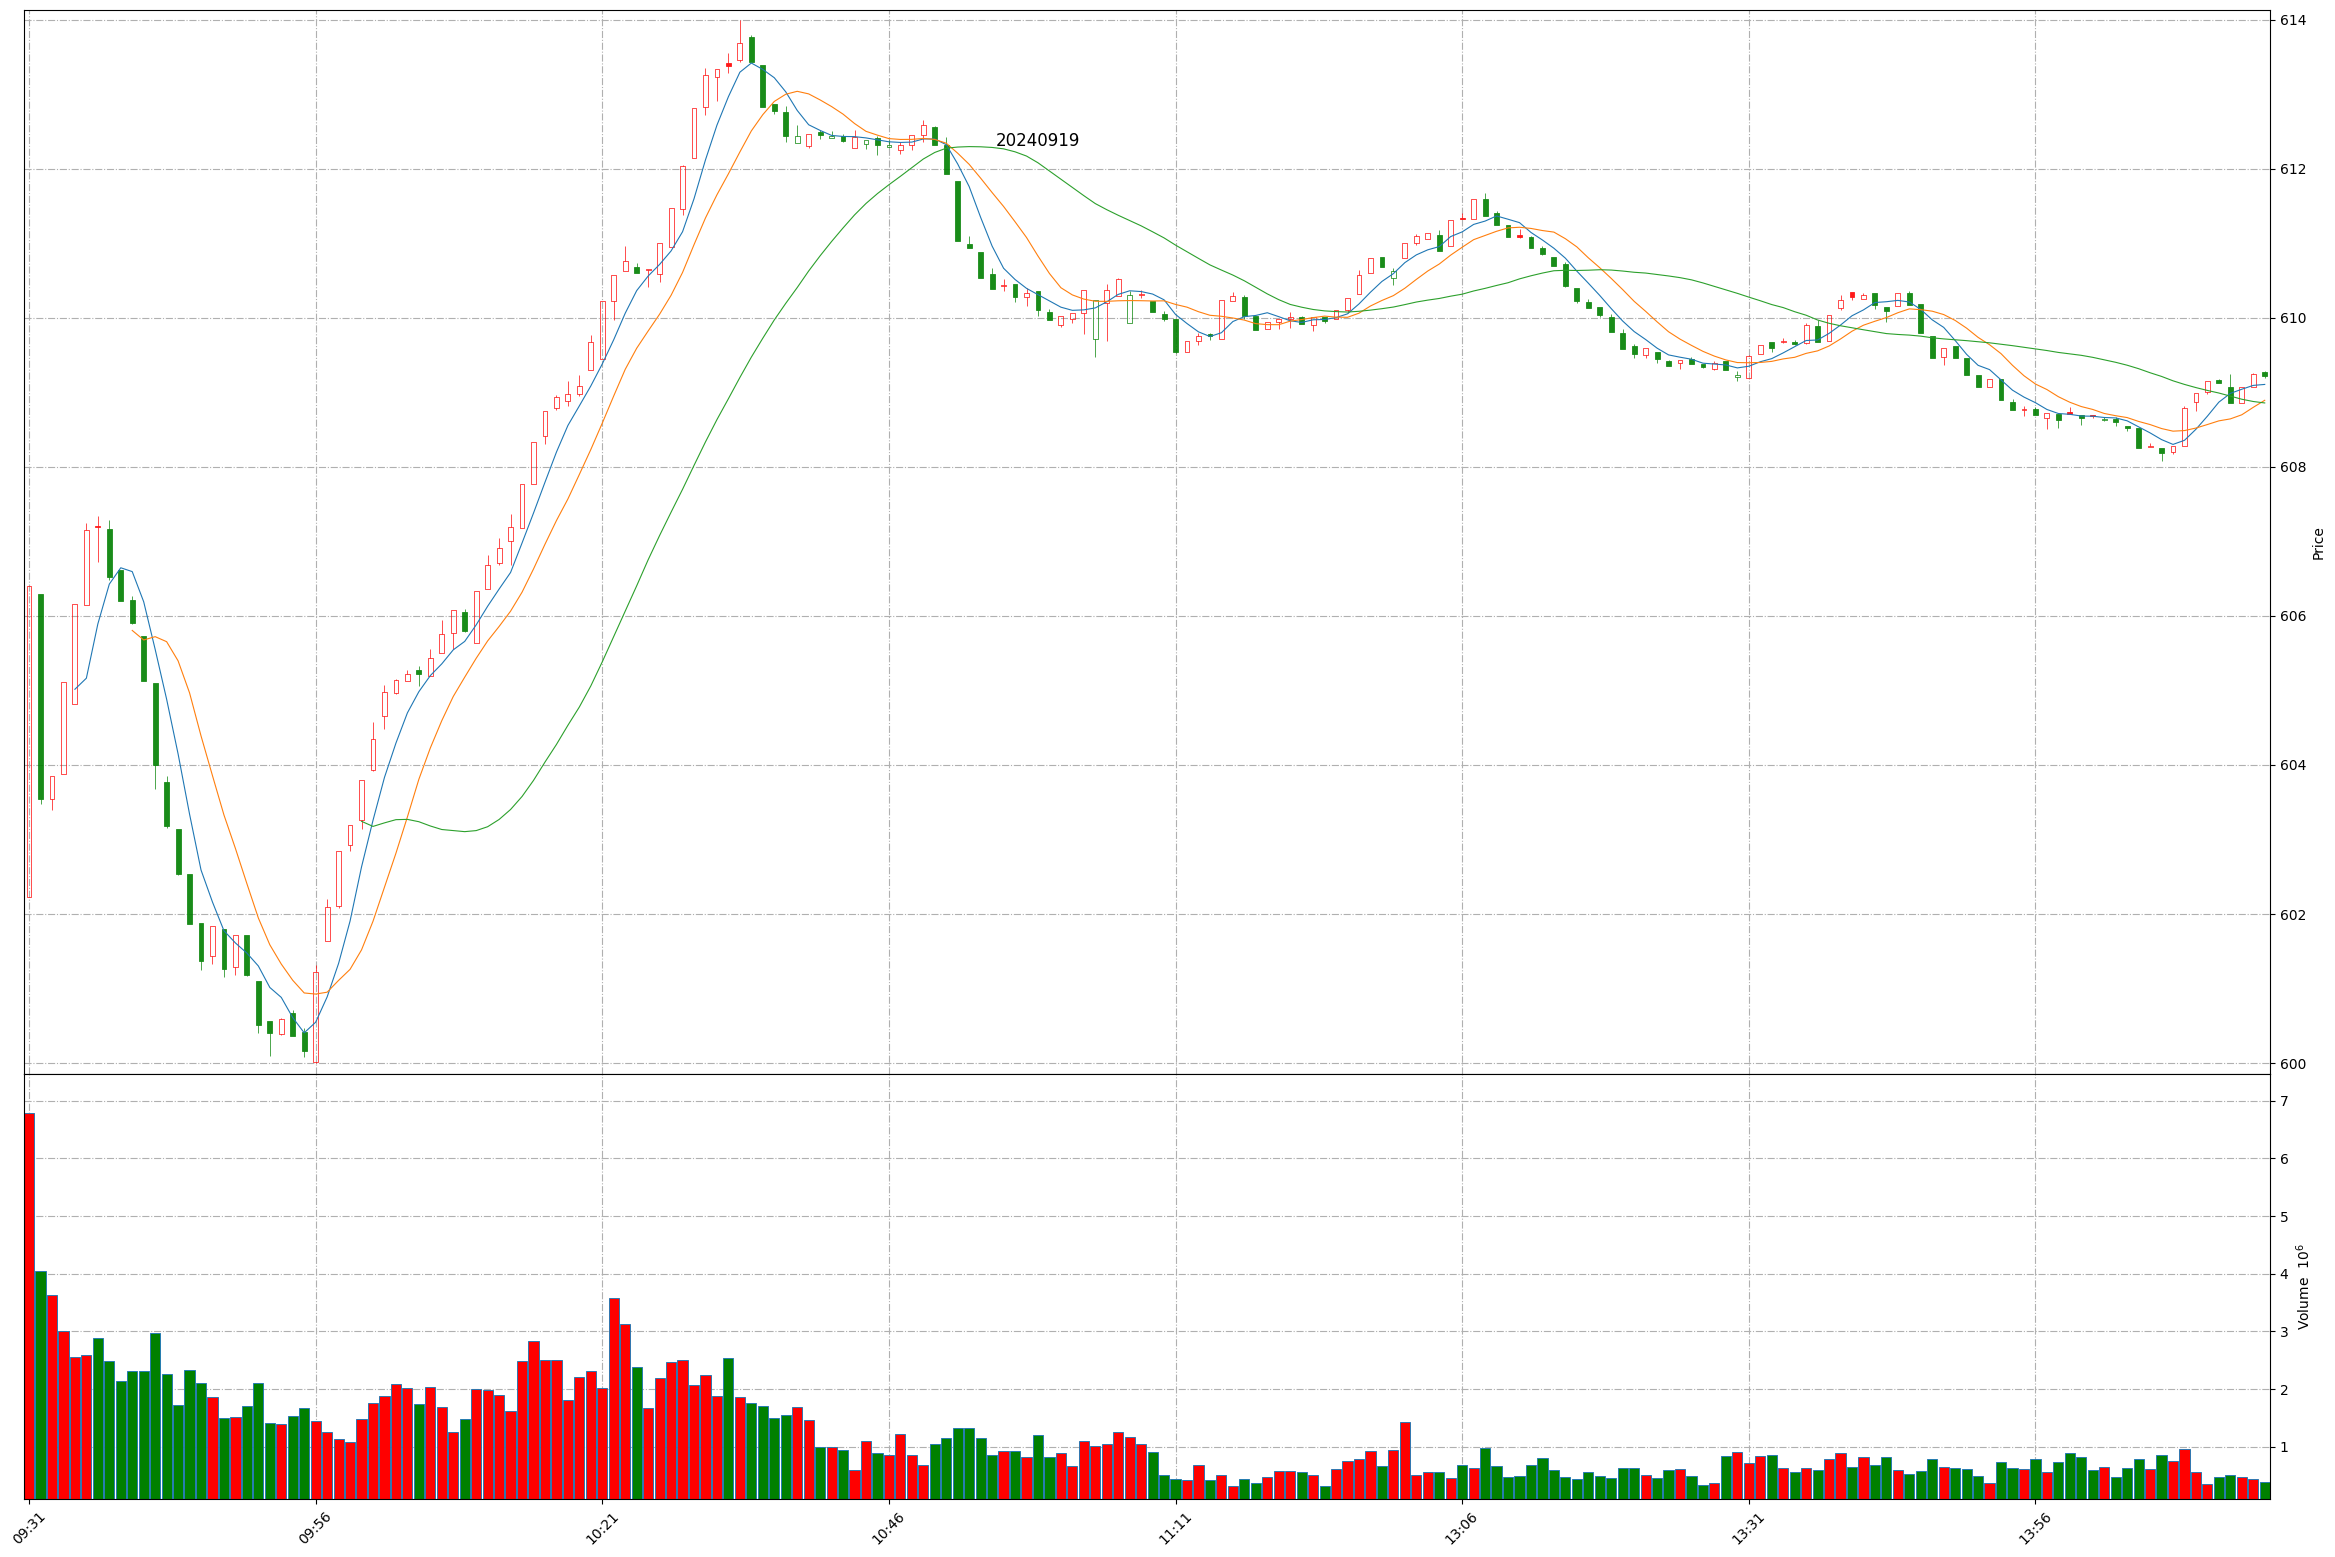
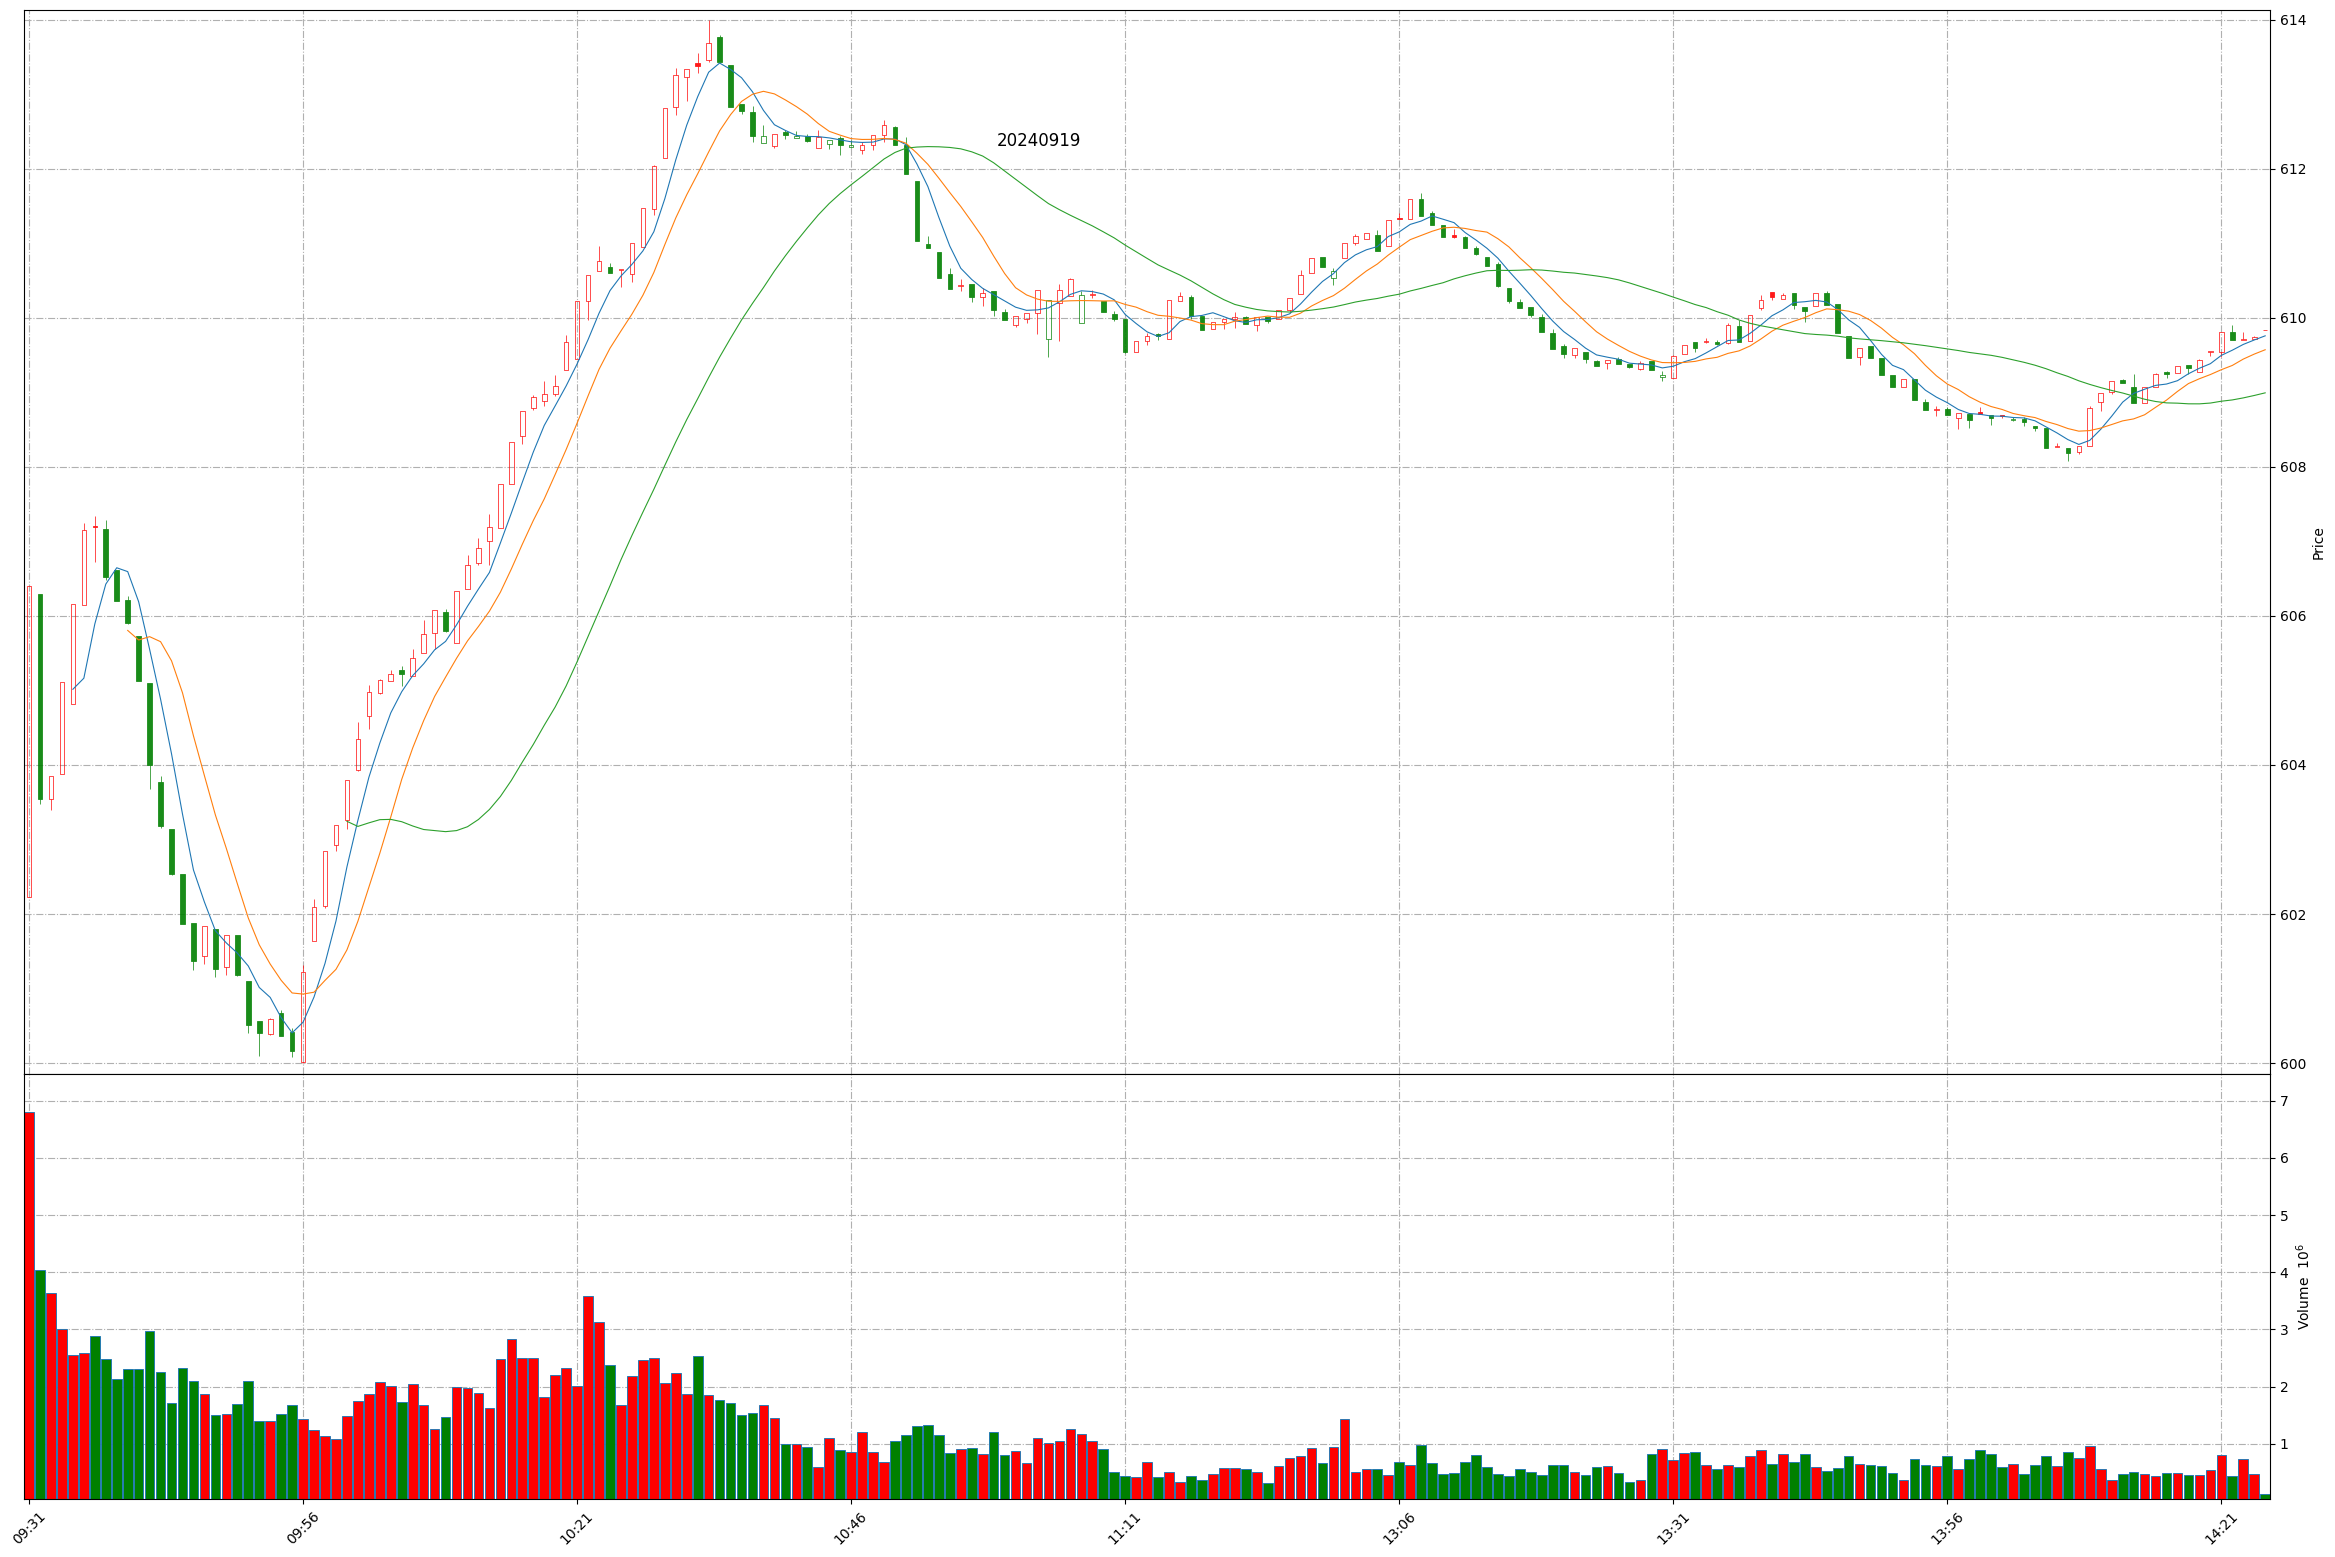
Github action update at 2024-09-19 14:24:25.

diff --git a/README.md b/README.md
@@ -1,11 +1,11 @@
 
 # Daily-A-share-market-quotes 每日 A 股指数（5min 更新）- 20240919
 
-### 上证指数 20240919 14:16
+### 上证指数 20240919 14:24
 ![](./fig/2024/9/20240919-sh000001.png)
 
-### 深证成指 20240919 14:16
+### 深证成指 20240919 14:24
 ![](./fig/2024/9/20240919-sz399001.png)
 
-### 北证50 20240919 14:16
+### 北证50 20240919 14:24
 ![](./fig/2024/9/20240919-bj899050.png)
